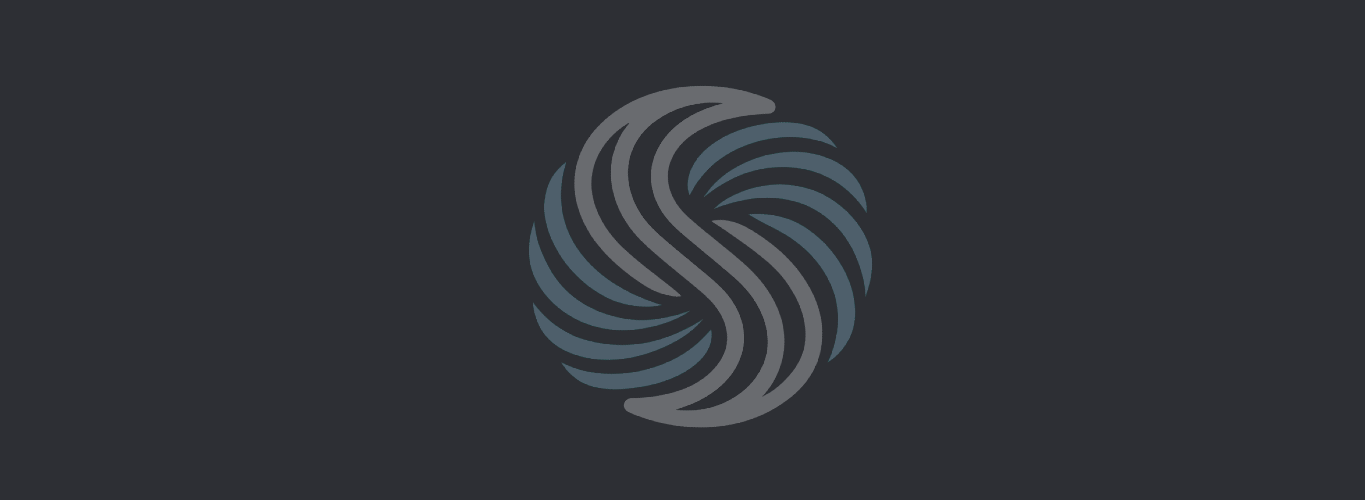
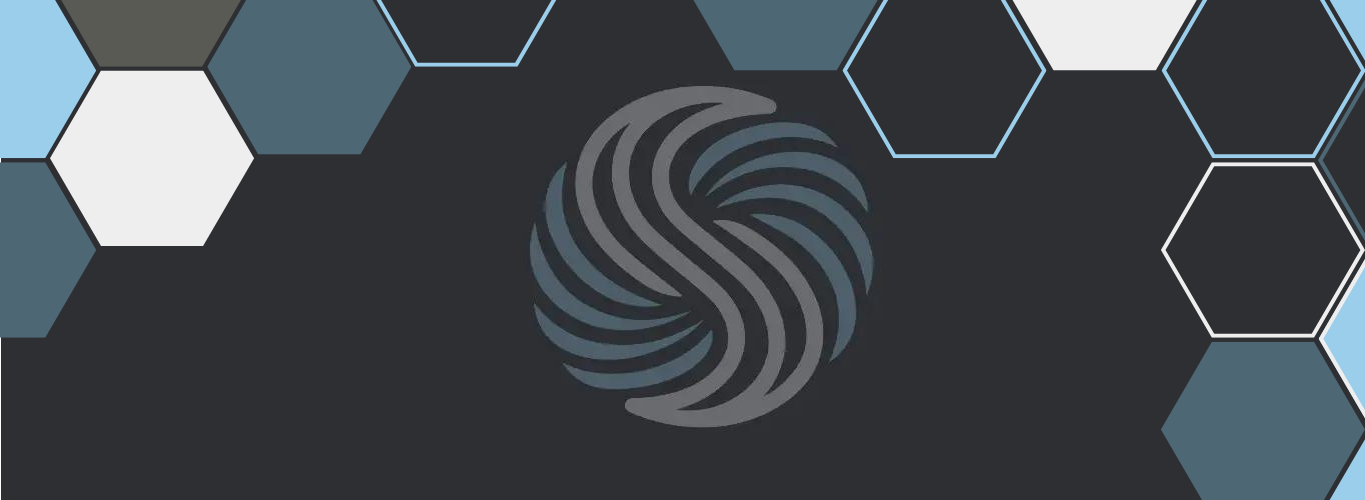
update header

diff --git a/index.md b/index.md
@@ -5,7 +5,7 @@ header:
   title: "Your Business is Unique, Your Security Solutions Should be Too"
   overlay_color: "#000"
   overlay_filter: "0.5"
-  overlay_image: assets/images/home-header.webp
+  overlay_image: assets/images/home-header.png
   actions:
     - label: "Let's Secure Your Business"
       url: "/contact"
